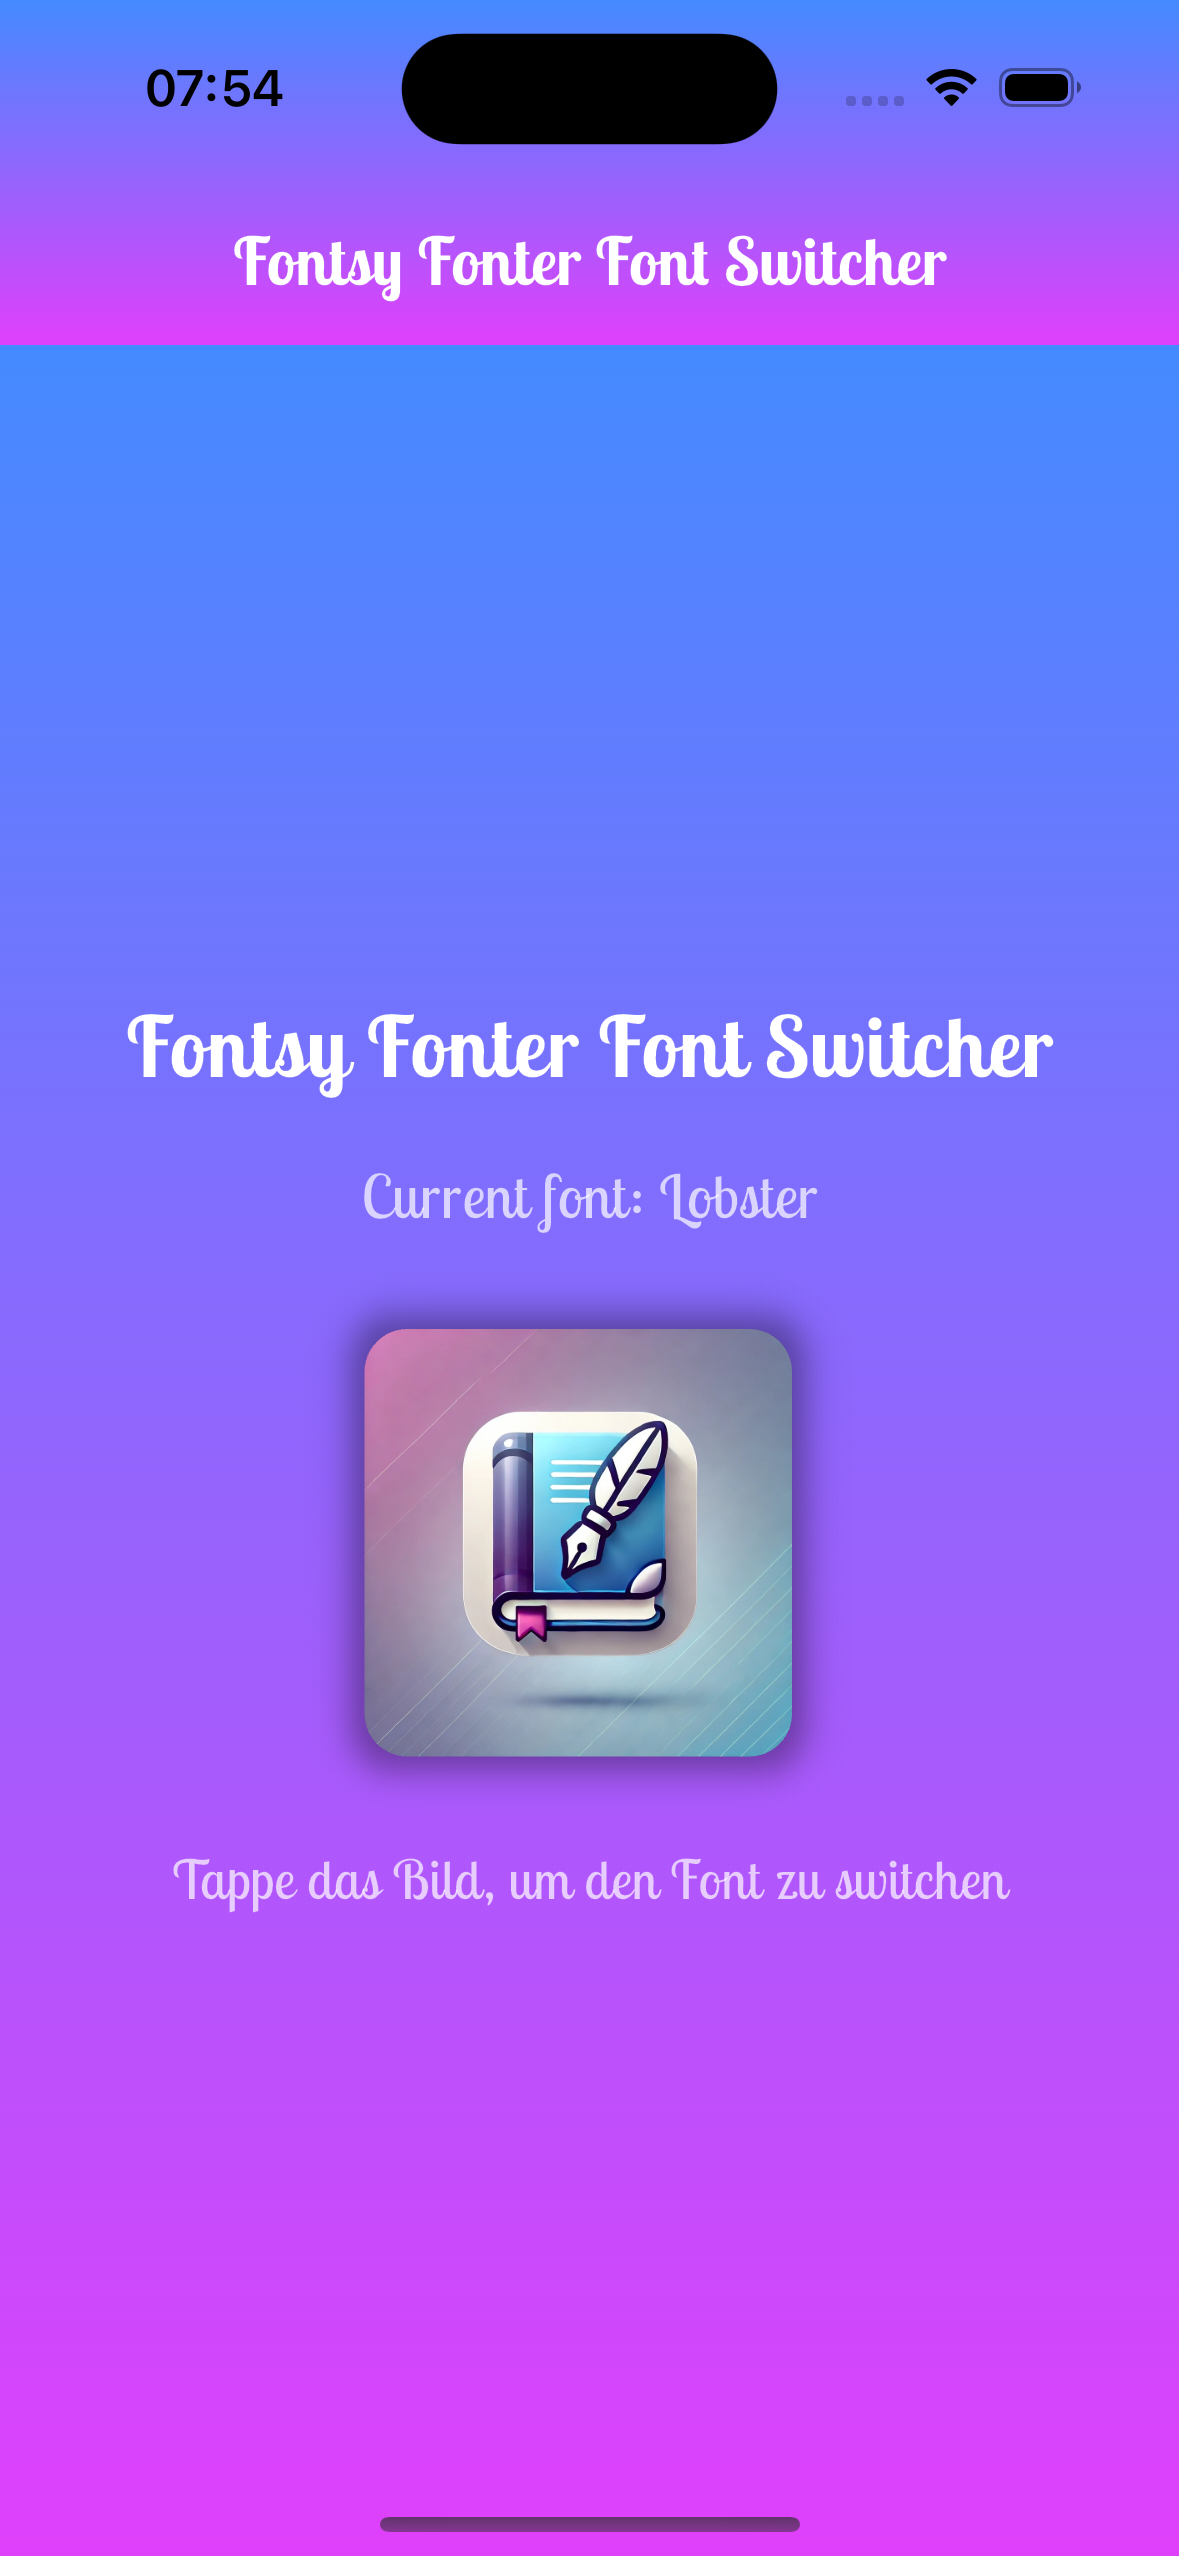
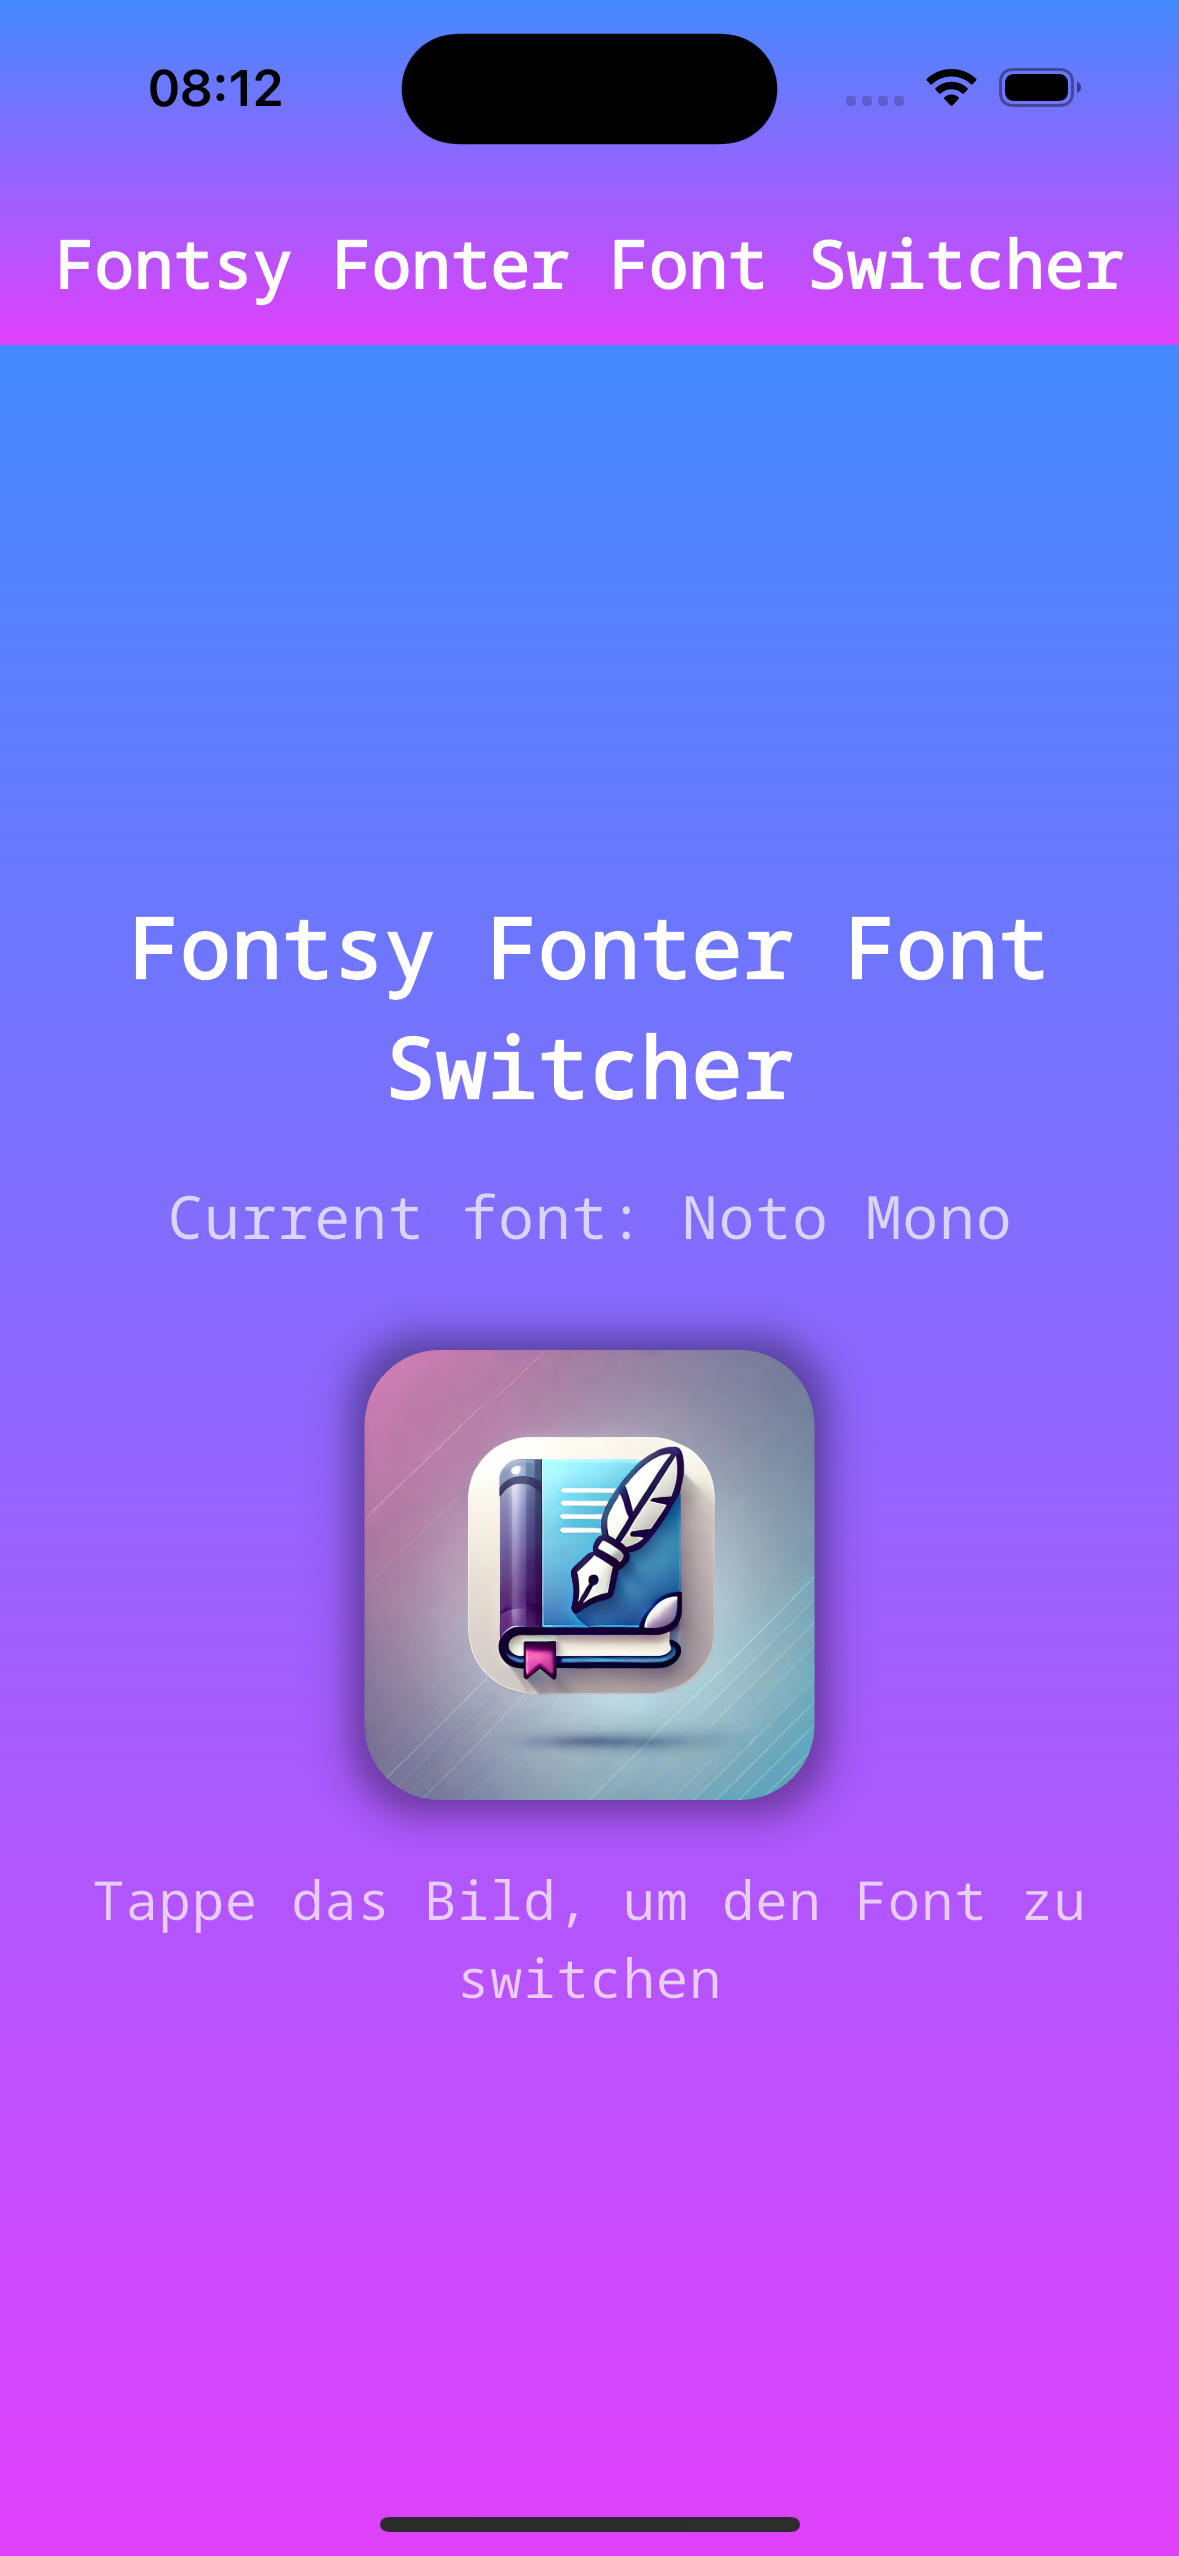
Fixed shadow bug, added new screenshot.

diff --git a/lib/main.dart b/lib/main.dart
@@ -22,7 +22,7 @@ class _MyAppState extends State<MyApp> {
 
   @override
   Widget build(BuildContext context) {
-    const double buttonBorderRadius = 20;
+    const double buttonBorderRadius = 25;
 
     return MaterialApp(
       debugShowCheckedModeBanner: false,
@@ -86,37 +86,48 @@ class _MyAppState extends State<MyApp> {
                   const SizedBox(height: 30),
                   GestureDetector(
                     onTap: _switchFont,
-                    child: ClipRRect(
-                      borderRadius: BorderRadius.circular(buttonBorderRadius),
-                      child: Material(
-                        color: Colors.transparent,
-                        child: InkWell(
-                          borderRadius:
-                              BorderRadius.circular(buttonBorderRadius),
-                          onTap: _switchFont,
-                          splashColor: Colors.blue.withOpacity(0.3),
-                          child: Ink(
-                            decoration: BoxDecoration(
-                              image: const DecorationImage(
-                                image: AssetImage(
-                                    'assets/images/fontsy_fonter_switcher.jpeg'),
-                                fit: BoxFit.cover,
+                    child: Stack(
+                      children: [
+                        Container(
+                          width: 150,
+                          height: 150,
+                          decoration: BoxDecoration(
+                            borderRadius:
+                                BorderRadius.circular(buttonBorderRadius),
+                            boxShadow: const [
+                              BoxShadow(
+                                color: Colors.black38,
+                                blurRadius: 10,
+                                spreadRadius: 5,
                               ),
-                              borderRadius: BorderRadius.circular(
-                                  15), // Ensure rounded corners
-                              boxShadow: const [
-                                BoxShadow(
-                                  color: Colors.black38,
-                                  blurRadius: 10,
-                                  spreadRadius: 5,
-                                ),
-                              ],
-                            ),
-                            width: 150,
-                            height: 150,
+                            ],
                           ),
                         ),
-                      ),
+                        ClipRRect(
+                          borderRadius:
+                              BorderRadius.circular(buttonBorderRadius),
+                          child: Material(
+                            color: Colors.transparent,
+                            child: InkWell(
+                              borderRadius:
+                                  BorderRadius.circular(buttonBorderRadius),
+                              onTap: _switchFont,
+                              splashColor: Colors.blue.withOpacity(0.3),
+                              child: Ink(
+                                decoration: const BoxDecoration(
+                                  image: DecorationImage(
+                                    image: AssetImage(
+                                        'assets/images/fontsy_fonter_switcher.jpeg'),
+                                    fit: BoxFit.cover,
+                                  ),
+                                ),
+                                width: 150,
+                                height: 150,
+                              ),
+                            ),
+                          ),
+                        ),
+                      ],
                     ),
                   ),
                   const SizedBox(height: 20),
